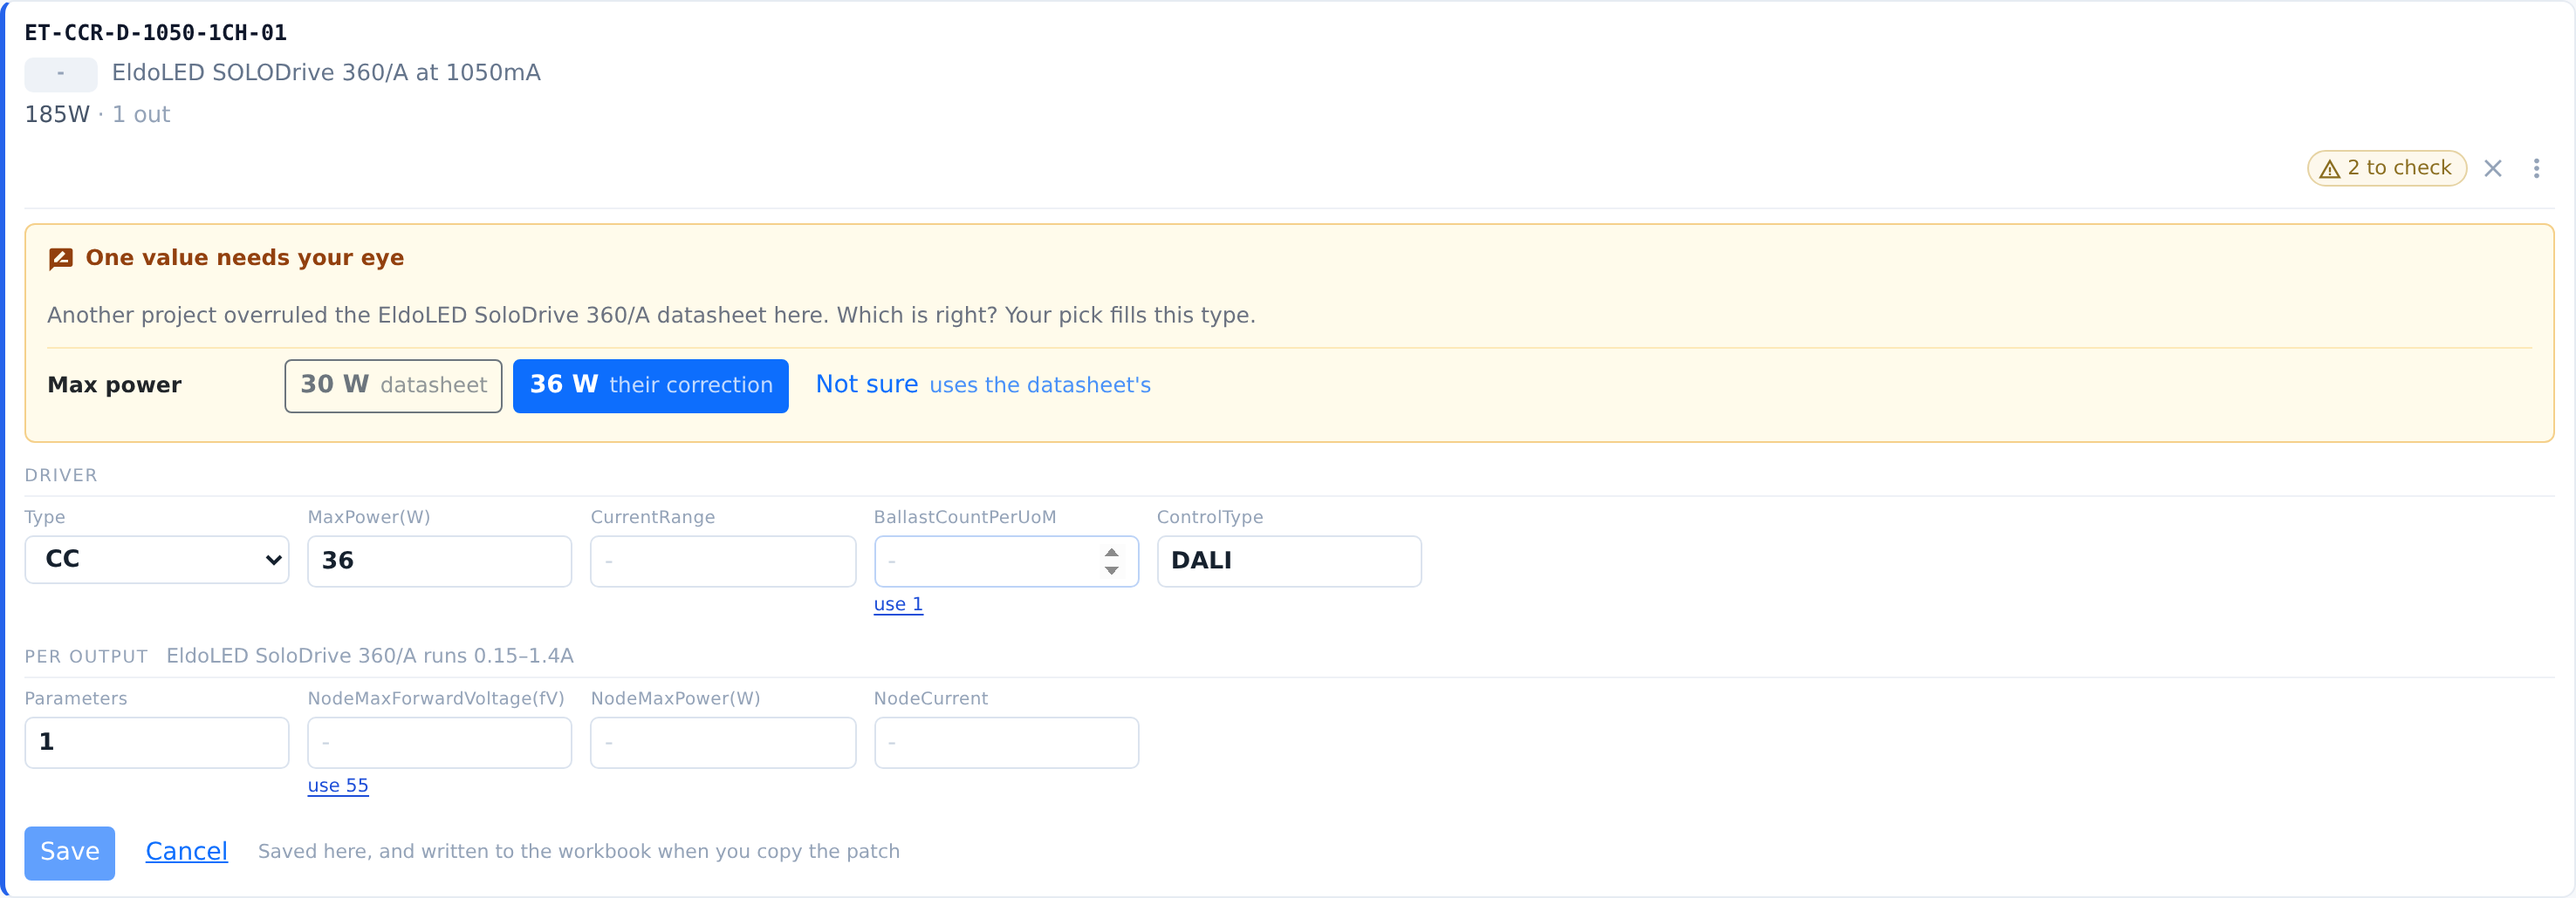
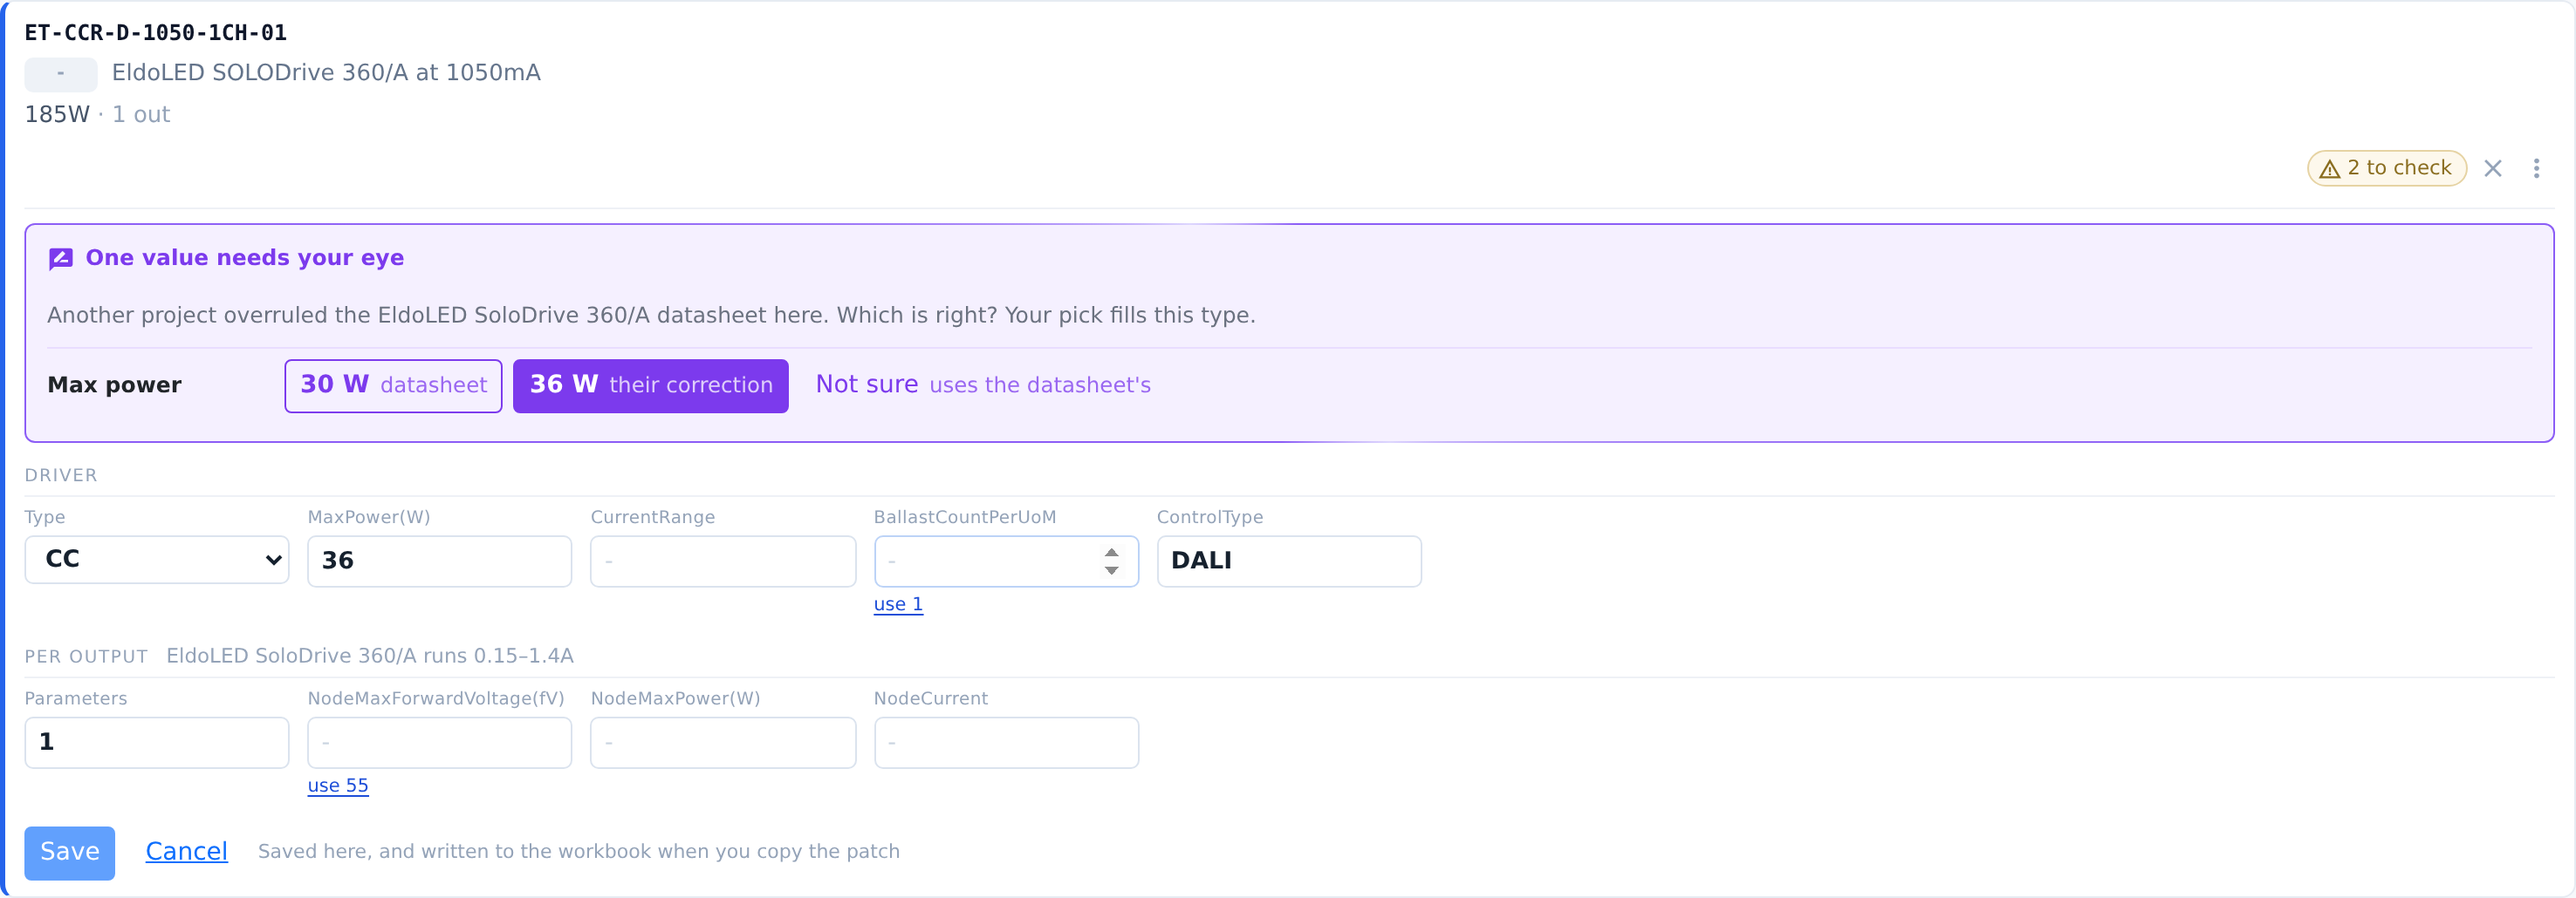
Disputes: the companion card's purple, not amber
Claude-Session: https://claude.ai/code/session_01SdQWcCESJ4qvoybTAsKLga

Changed region(s): [[0.0935, 0.3728, 0.4363, 0.466], [0.0, 0.2485, 0.1558, 0.3107]]

diff --git a/src/styles.css b/src/styles.css
@@ -1252,11 +1252,11 @@ body { background: #f6f8fb; }
 .companion-card .btn-outline-primary, .companion-card .btn-info { --bs-btn-color: #7c3aed; --bs-btn-border-color: #7c3aed; --bs-btn-bg: transparent; --bs-btn-hover-color: #fff; --bs-btn-hover-bg: #7c3aed; --bs-btn-hover-border-color: #7c3aed; --bs-btn-active-color: #fff; --bs-btn-active-bg: #6d28d9; --bs-btn-active-border-color: #6d28d9; --bs-btn-focus-shadow-rgb: 124, 58, 237; }
 .companion-card .btn-info { --bs-btn-color: #fff; --bs-btn-bg: #7c3aed; }
 .companion-card .btn-link { color: #7c3aed; }
-.disputes { font-size: 12.5px; padding: 10px 12px; border: 1px solid #f5d08a; background: #fffbeb; border-radius: 6px; margin: 0 0 10px; }
-.disputes .dp-head { display: flex; align-items: center; gap: 6px; font-weight: 650; color: #92400e; }
+.disputes { font-size: 12.5px; padding: 10px 12px; border-radius: 6px; margin: 0 0 10px; }
+.disputes .dp-head { display: flex; align-items: center; gap: 6px; font-weight: 650; color: #7c3aed; }
 .disputes .dp-head .material-icons { font-size: 16px; }
 .disputes .dp-sub { color: #6b7280; margin: 2px 0 8px; }
-.disputes .dp-row { display: flex; flex-wrap: wrap; align-items: center; gap: 6px; padding: 6px 0; border-top: 1px solid #fde9b8; }
+.disputes .dp-row { display: flex; flex-wrap: wrap; align-items: center; gap: 6px; padding: 6px 0; border-top: 1px solid #e9ddff; }
 .disputes .dp-col { min-width: 130px; font-weight: 600; display: flex; flex-direction: column; }
 .disputes .dp-col small, .disputes .btn small { font-weight: normal; color: inherit; opacity: .75; }
 .disputes .btn small { margin-left: 6px; }

diff --git a/src/components/Disputes.jsx b/src/components/Disputes.jsx
@@ -12,7 +12,7 @@ export default function Disputes({ rows, picks, onPick, fills }) {
   if (!rows.length) return null;
   const pair = new Set(rows.map((r) => r.part)).size > 1;
   return (
-    <div className="disputes" role="group" aria-label="Values another project corrected">
+    <div className="companion-card disputes" role="group" aria-label="Values another project corrected">
       <div className="dp-head">
         <span className="material-icons" aria-hidden="true">rate_review</span>
         {rows.length === 1 ? 'One value needs your eye' : `${rows.length} values need your eye`}
@@ -22,9 +22,9 @@ export default function Disputes({ rows, picks, onPick, fills }) {
       </div>
       {rows.map((r) => {
         const k = pickKey(r);
-        const btn = (v, label, sub, cls = 'btn-outline-secondary') => (
+        const btn = (v, label, sub, cls = 'btn-outline-primary') => (
           <button type="button" aria-pressed={picks[k] === v} onClick={() => onPick(r, v)}
-            className={`btn btn-sm ${picks[k] === v ? 'btn-primary' : cls}`}>
+            className={`btn btn-sm ${picks[k] === v ? 'btn-info' : cls}`}>
             {label}{sub && <small>{sub}</small>}
           </button>
         );
